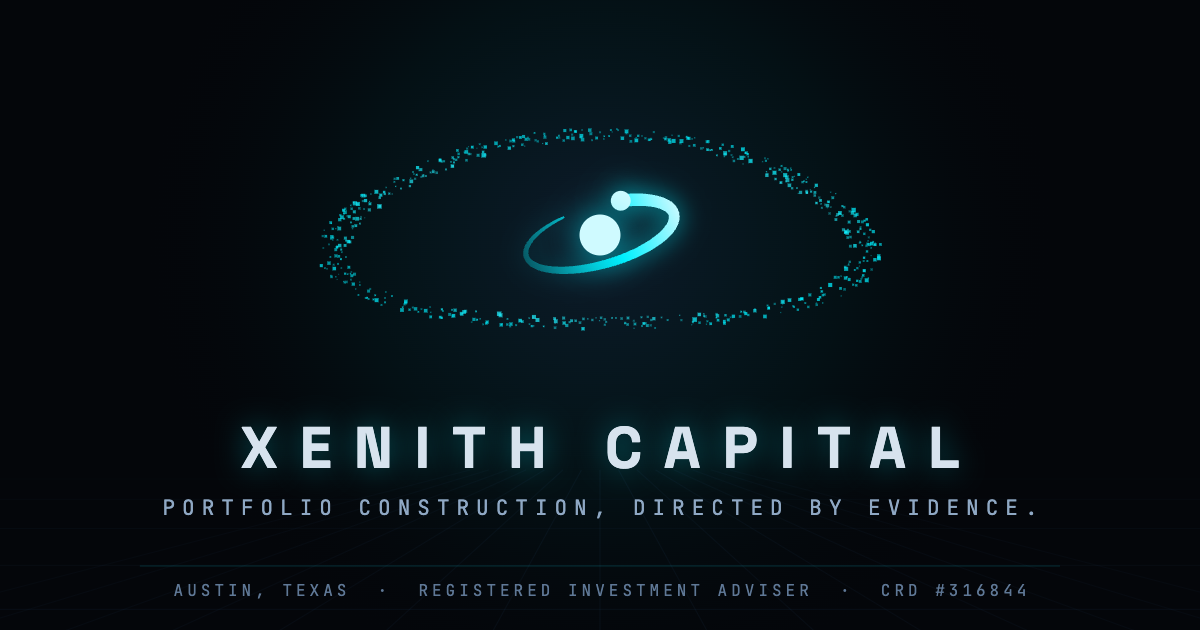
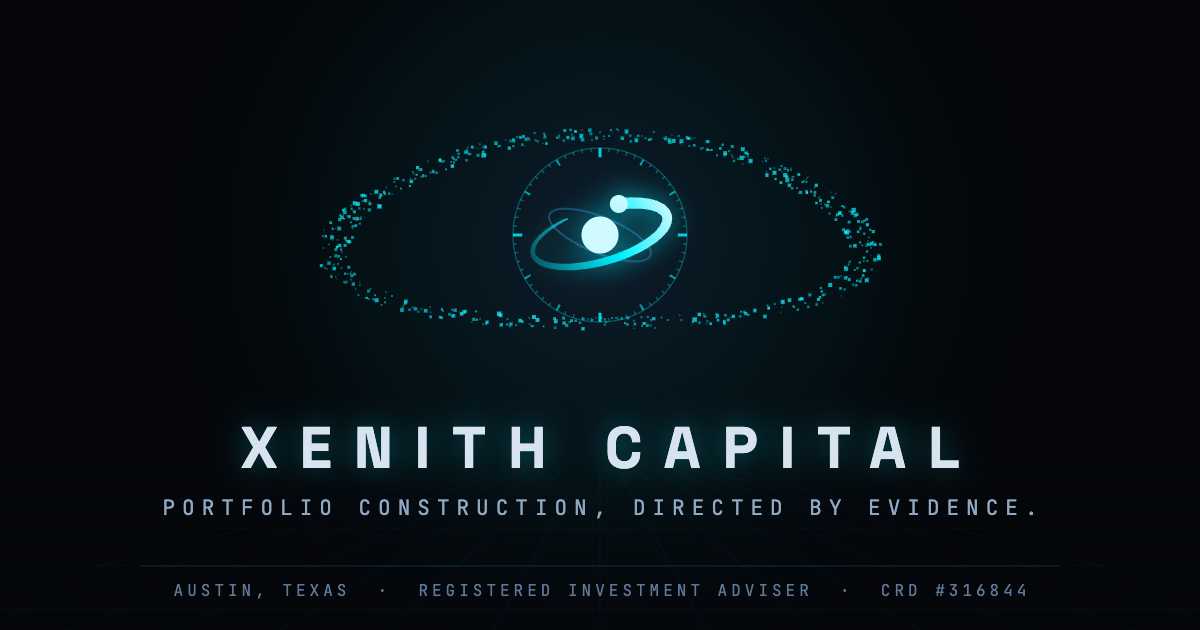
v7.5: THE SEAL — two-tier brand system
Ceremonial tier: the comet Orbital inside a graduated instrument bezel
(cardinal/major/minor ticks) with a counter-tilted second orbital
shell — an astrolabe dial. Boot screen runs it live (bezel 70s CW,
shell 110s CCW, reduced-motion frozen); og card nests it inside the
particle ring. Chrome tier (topbar/favicon/404) keeps the bare mark.
assets/seal.svg added as the canonical standalone asset.

diff --git a/index.html b/index.html
@@ -24,8 +24,9 @@
 <div id="x-boot" aria-hidden="true">
   <div class="x-boot-inner">
     <svg class="x-boot-mark" viewBox="0 0 32 32" fill="none" aria-hidden="true">
-      <!-- THE ORBITAL v2: an orbiting body and its tapered luminous trail,
-           sweeping in true perspective behind the core -->
+      <!-- THE SEAL: graduated instrument bezel + second orbital shell
+           around the comet Orbital. Bezel and shell counter-rotate
+           slowly (xenith.css); reduced motion freezes them. -->
       <defs>
         <linearGradient id="xg-b" gradientUnits="userSpaceOnUse" x1="28.9" y1="12" x2="3.6" y2="16">
           <stop offset="0" stop-color="#cffaff"/>
@@ -33,6 +34,15 @@
           <stop offset="1" stop-color="#00f0ff" stop-opacity="0.28"/>
         </linearGradient>
       </defs>
+      <circle cx="16" cy="16" r="15" stroke="#00f0ff" stroke-width="0.22" opacity="0.3"/>
+      <g class="xsl-bezel">
+        <path d="M31.00 16.00 L29.40 16.00 M16.00 31.00 L16.00 29.40 M1.00 16.00 L2.60 16.00 M16.00 1.00 L16.00 2.60" stroke="#00f0ff" stroke-width="0.5" opacity="0.85"/>
+        <path d="M28.99 23.50 L27.99 22.92 M23.50 28.99 L22.93 27.99 M8.50 28.99 L9.08 27.99 M3.01 23.50 L4.01 22.92 M3.01 8.50 L4.01 9.07 M8.50 3.01 L9.07 4.01 M23.50 3.01 L22.93 4.01 M28.99 8.50 L27.99 9.07" stroke="#00f0ff" stroke-width="0.36" opacity="0.6"/>
+        <path d="M30.92 17.57 L30.32 17.51 M30.67 19.12 L30.09 18.99 M30.27 20.64 L29.70 20.45 M29.70 22.10 L29.16 21.86 M28.14 24.82 L27.65 24.46 M27.15 26.04 L26.70 25.64 M26.04 27.15 L25.64 26.70 M24.82 28.14 L24.46 27.65 M22.10 29.70 L21.86 29.16 M20.64 30.27 L20.45 29.70 M19.12 30.67 L18.99 30.09 M17.57 30.92 L17.51 30.32 M14.43 30.92 L14.49 30.32 M12.88 30.67 L13.01 30.09 M11.36 30.27 L11.55 29.70 M9.90 29.70 L10.14 29.16 M7.18 28.14 L7.54 27.65 M5.96 27.15 L6.36 26.70 M4.85 26.04 L5.30 25.64 M3.86 24.82 L4.35 24.46 M2.30 22.10 L2.84 21.86 M1.73 20.64 L2.30 20.45 M1.33 19.12 L1.91 18.99 M1.08 17.57 L1.68 17.51 M1.08 14.43 L1.68 14.49 M1.33 12.88 L1.91 13.01 M1.73 11.36 L2.30 11.55 M2.30 9.90 L2.84 10.14 M3.86 7.18 L4.35 7.54 M4.85 5.96 L5.30 6.36 M5.96 4.85 L6.36 5.30 M7.18 3.86 L7.54 4.35 M9.90 2.30 L10.14 2.84 M11.36 1.73 L11.55 2.30 M12.88 1.33 L13.01 1.91 M14.43 1.08 L14.49 1.68 M17.57 1.08 L17.51 1.68 M19.12 1.33 L18.99 1.91 M20.64 1.73 L20.45 2.30 M22.10 2.30 L21.86 2.84 M24.82 3.86 L24.46 4.35 M26.04 4.85 L25.64 5.30 M27.15 5.96 L26.70 6.36 M28.14 7.18 L27.65 7.54 M29.70 9.90 L29.16 10.14 M30.27 11.36 L29.70 11.55 M30.67 12.88 L30.09 13.01 M30.92 14.43 L30.32 14.49" stroke="#00f0ff" stroke-width="0.2" opacity="0.4"/>
+      </g>
+      <g transform="rotate(22 16 16)" opacity="0.32">
+        <ellipse class="xsl-shell" cx="16" cy="16" rx="9.4" ry="3.1" stroke="#4f9fff" stroke-width="0.35"/>
+      </g>
       <g transform="rotate(-16 16 16)">
         <path fill="url(#xg-b)" d="M20.75 10.76 L21.86 10.97 L22.91 11.23 L23.90 11.52 L24.83 11.86 L25.68 12.23 L26.44 12.64 L27.12 13.08 L27.70 13.57 L28.19 14.11 L28.55 14.70 L28.79 15.33 L28.86 16.00 L28.76 16.66 L28.51 17.28 L28.13 17.85 L27.64 18.36 L27.05 18.82 L26.37 19.24 L25.60 19.62 L24.76 19.97 L23.84 20.27 L22.85 20.54 L21.80 20.77 L20.70 20.95 L19.56 21.10 L18.39 21.20 L17.20 21.25 L16.00 21.26 L14.80 21.22 L13.61 21.14 L12.45 21.02 L11.31 20.85 L10.22 20.64 L9.19 20.38 L8.22 20.09 L7.32 19.76 L6.50 19.40 L5.76 19.01 L5.12 18.58 L4.58 18.12 L4.15 17.63 L3.82 17.11 L3.63 16.56 L3.58 16.00 L3.66 15.45 L3.88 14.92 L4.22 14.43 L4.67 13.98 L5.22 13.56 L5.86 13.17 L6.60 12.81 L7.42 12.49 L8.31 12.20 L9.28 11.95 L10.30 11.75 L11.38 11.59 L11.43 11.91 L10.38 12.14 L9.39 12.40 L8.46 12.69 L7.61 13.01 L6.85 13.35 L6.18 13.72 L5.61 14.11 L5.15 14.50 L4.81 14.90 L4.58 15.28 L4.45 15.65 L4.42 16.00 L4.48 16.34 L4.64 16.69 L4.89 17.04 L5.25 17.40 L5.71 17.76 L6.28 18.11 L6.95 18.43 L7.71 18.74 L8.56 19.02 L9.48 19.27 L10.46 19.48 L11.50 19.65 L12.59 19.79 L13.71 19.88 L14.85 19.93 L16.00 19.94 L17.15 19.91 L18.29 19.83 L19.40 19.71 L20.48 19.55 L21.51 19.35 L22.48 19.11 L23.39 18.84 L24.21 18.54 L24.95 18.22 L25.59 17.87 L26.12 17.52 L26.53 17.16 L26.84 16.82 L27.03 16.51 L27.12 16.24 L27.14 16.00 L27.10 15.77 L26.98 15.51 L26.78 15.22 L26.47 14.91 L26.05 14.58 L25.51 14.25 L24.88 13.94 L24.14 13.64 L23.32 13.37 L22.42 13.12 L21.46 12.91 L20.44 12.74 Z"/>
         <circle cx="20.59" cy="11.75" r="1.55" fill="#cffaff"/>

diff --git a/assets/xenith.css b/assets/xenith.css
@@ -292,11 +292,31 @@ html:not(.js) #x-boot {
 }
 
 .x-boot-mark {
-  width: 46px;
-  height: 46px;
+  width: 84px;
+  height: 84px;
   align-self: center;
   color: var(--x-cyan);
-  filter: drop-shadow(0 0 12px rgba(0, 240, 255, .6));
+  filter: drop-shadow(0 0 14px rgba(0, 240, 255, .55));
+}
+
+/* the seal is a live instrument: bezel and shell counter-rotate slowly.
+   Reduced motion freezes both via the global animation clamp. */
+.x-boot-mark .xsl-bezel {
+  animation: x-seal-spin 70s linear infinite;
+  transform-origin: 16px 16px;
+}
+
+.x-boot-mark .xsl-shell {
+  animation: x-seal-spin-r 110s linear infinite;
+  transform-origin: 16px 16px;
+}
+
+@keyframes x-seal-spin {
+  to { transform: rotate(360deg); }
+}
+
+@keyframes x-seal-spin-r {
+  to { transform: rotate(-360deg); }
 }
 
 .x-boot-brand {
